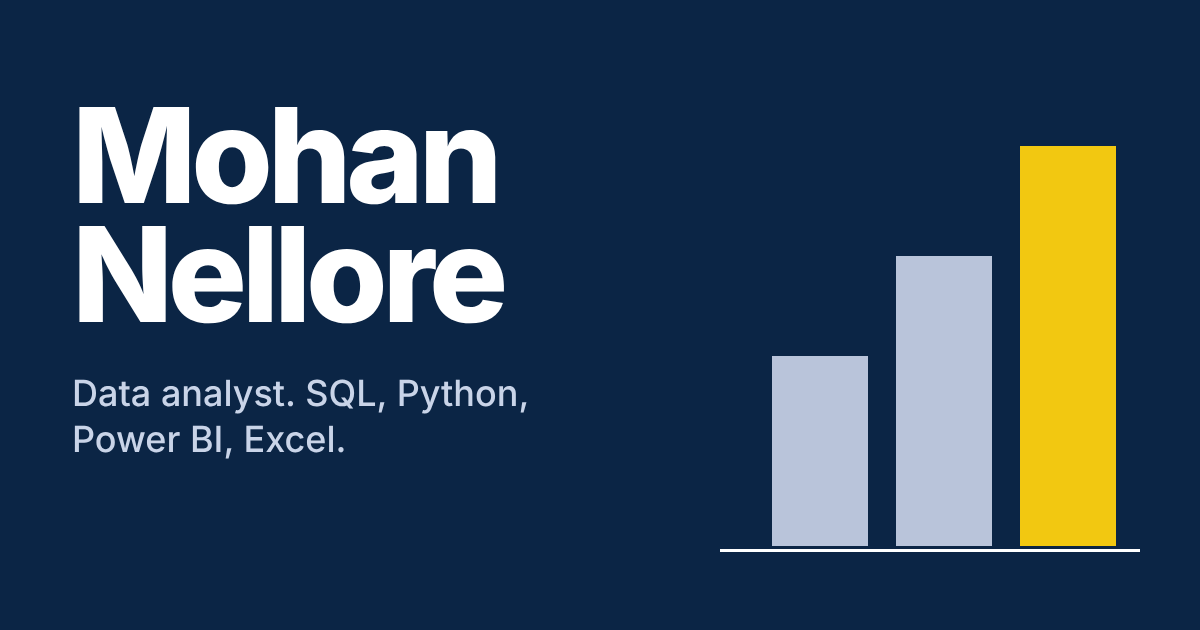
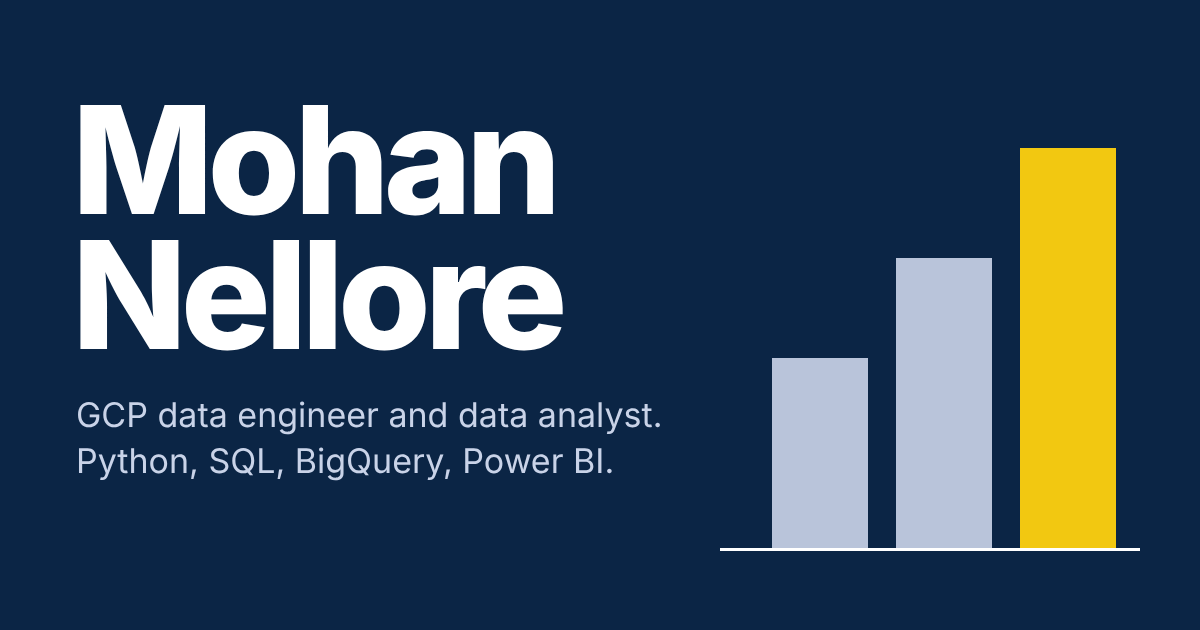
Refocus portfolio on GCP data engineering and data analysis
- Remove the before/after results chart from the hero
- Retitle the profile as GCP data engineer and data analyst across the
  hero, About, page title, meta/Open Graph tags, JSON-LD and README
- Rework skills into Google Cloud, Data engineering, Languages, Analytics,
  Tools and Strengths. Only services used in the pipeline are listed
- Cut Projects to two: the GCP air-quality pipeline (with a pipeline
  diagram) and the electric vehicle analysis; drop the Uber and store
  sales projects
- Regenerate the social share image with the new title
- Balance the role line wrap and remove the unused chart CSS

Claude-Session: https://claude.ai/code/session_0138ZdZ2XPy7SnAWQC2XQ62Q

diff --git a/index.html b/index.html
@@ -3,21 +3,21 @@
 <head>
   <meta charset="utf-8">
   <meta name="viewport" content="width=device-width, initial-scale=1">
-  <title>Mohan Nellore, Data Analyst in Hyderabad</title>
-  <meta name="description" content="Portfolio of Mohan Nellore, an entry-level data analyst in Hyderabad skilled in SQL, Python, Power BI, and Excel. Projects, internship experience, and contact details.">
+  <title>Mohan Nellore, GCP Data Engineer and Data Analyst</title>
+  <meta name="description" content="Portfolio of Mohan Nellore, a GCP data engineer and data analyst in Hyderabad. Python, SQL, BigQuery, and Power BI work, internship experience, and contact details.">
   <meta name="author" content="Mohan Nellore">
   <meta name="theme-color" content="#F4F6FA">
   <link rel="canonical" href="https://mohannellore.github.io/">
 
   <meta property="og:type" content="website">
   <meta property="og:site_name" content="Mohan Nellore">
-  <meta property="og:title" content="Mohan Nellore, Data Analyst in Hyderabad">
-  <meta property="og:description" content="Entry-level data analyst skilled in SQL, Python, Power BI, and Excel. See projects, internship experience, and how to get in touch.">
+  <meta property="og:title" content="Mohan Nellore, GCP Data Engineer and Data Analyst">
+  <meta property="og:description" content="Entry-level GCP data engineer and data analyst skilled in Python, SQL, BigQuery, and Power BI. See projects, internship experience, and how to get in touch.">
   <meta property="og:url" content="https://mohannellore.github.io/">
   <meta property="og:image" content="https://mohannellore.github.io/assets/img/og-image.png">
   <meta property="og:image:width" content="1200">
   <meta property="og:image:height" content="630">
-  <meta property="og:image:alt" content="Mohan Nellore, data analyst. SQL, Python, Power BI, Excel.">
+  <meta property="og:image:alt" content="Mohan Nellore, GCP data engineer and data analyst. Python, SQL, BigQuery, Power BI.">
   <meta name="twitter:card" content="summary_large_image">
 
   <link rel="icon" href="assets/img/favicon.svg" type="image/svg+xml">
@@ -40,7 +40,7 @@
     "@context": "https://schema.org",
     "@type": "Person",
     "name": "Mohan Nellore",
-    "jobTitle": "Data Analyst",
+    "jobTitle": "GCP Data Engineer and Data Analyst",
     "url": "https://mohannellore.github.io/",
     "image": "https://mohannellore.github.io/assets/img/avatar.webp",
     "sameAs": [
@@ -53,7 +53,7 @@
       "addressRegion": "Telangana",
       "addressCountry": "IN"
     },
-    "knowsAbout": ["SQL", "Python", "Power BI", "Excel", "Data analysis", "Data visualization"]
+    "knowsAbout": ["Google Cloud Platform", "BigQuery", "Cloud Storage", "Python", "SQL", "ETL pipelines", "Data analysis", "Power BI", "Excel"]
   }
   </script>
 </head>
@@ -90,16 +90,18 @@
 
     <!-- Hero -->
     <section class="hero" id="top" aria-labelledby="name">
-      <div class="wrap hero__grid">
+      <div class="wrap">
         <div class="hero__copy">
           <div class="status">
             <img class="avatar" src="assets/img/avatar.webp" width="72" height="72" alt="Portrait of Mohan Nellore">
-            <p>Hyderabad, India.<br>Open to entry-level data analyst roles.</p>
+            <p>Hyderabad, India.<br>Open to entry-level data engineer and data analyst roles.</p>
           </div>
 
           <h1 id="name"><span>Mohan</span> <span>Nellore</span></h1>
 
-          <p class="lead">I'm a data analyst. I clean data, find what matters in it, and show it in dashboards people can act on. I work in SQL, Python, Power BI, and Excel.</p>
+          <p class="role">GCP data engineer and data analyst</p>
+
+          <p class="lead">I build Python pipelines on Google Cloud that clean data, load it into BigQuery, and get it ready for SQL analysis. I also analyze data and build dashboards in Python, SQL, and Power BI.</p>
 
           <div class="actions">
             <a class="btn btn--solid" href="#projects">See projects</a>
@@ -112,37 +114,6 @@
             <li><a href="mailto:mohannellore17@gmail.com" data-track="contact_email" data-category="contact" data-label="Email Click (Hero)"><svg class="icon" aria-hidden="true"><use href="#i-mail"/></svg>Email</a></li>
           </ul>
         </div>
-
-        <figure class="chart">
-          <div class="chart__pair">
-            <svg class="chart__svg" viewBox="0 0 280 190" role="img" aria-label="Bar chart. Reporting time fell from an index of 100 to 70, a 30 percent reduction.">
-              <text class="c-title" x="0" y="20">Reporting time</text>
-              <line class="c-ref" x1="118" y1="62" x2="246" y2="62"/>
-              <line class="c-base" x1="0" y1="158" x2="280" y2="158"/>
-              <rect class="c-bar c-bar--soft" style="--d:.15s" x="34" y="62" width="84" height="96"/>
-              <rect class="c-bar c-bar--ink" style="--d:.45s" x="162" y="90.8" width="84" height="67.2"/>
-              <text class="c-val c-val--ink" x="76" y="146">100</text>
-              <text class="c-val c-val--white" x="204" y="146">70</text>
-              <g class="c-tag"><rect x="170" y="65" width="68" height="22" rx="4"/><text x="204" y="81.5">−30%</text></g>
-              <text class="c-x" x="76" y="180">Before</text>
-              <text class="c-x" x="204" y="180">After</text>
-            </svg>
-
-            <svg class="chart__svg" viewBox="0 0 280 190" role="img" aria-label="Bar chart. Data efficiency rose from an index of 100 to 125, a 25 percent improvement.">
-              <text class="c-title" x="0" y="20">Data efficiency</text>
-              <line class="c-ref" x1="118" y1="62" x2="246" y2="62"/>
-              <line class="c-base" x1="0" y1="158" x2="280" y2="158"/>
-              <rect class="c-bar c-bar--soft" style="--d:.3s" x="34" y="62" width="84" height="96"/>
-              <rect class="c-bar c-bar--ink" style="--d:.6s" x="162" y="38" width="84" height="120"/>
-              <text class="c-val c-val--ink" x="76" y="146">100</text>
-              <text class="c-val c-val--white" x="204" y="146">125</text>
-              <g class="c-tag"><rect x="170" y="11" width="68" height="22" rx="4"/><text x="204" y="27.5">+25%</text></g>
-              <text class="c-x" x="76" y="180">Before</text>
-              <text class="c-x" x="204" y="180">After</text>
-            </svg>
-          </div>
-          <figcaption>Results from my data analyst internship at Kapil IT Skill Hub, May to July 2025. Each pair is indexed so that before equals 100.</figcaption>
-        </figure>
       </div>
     </section>
 
@@ -152,26 +123,30 @@
         <h2 id="about-h" class="split__title">About</h2>
         <div class="split__body">
           <div class="prose">
-            <p>I'm a data analyst who works in SQL, Python (Pandas, NumPy, Matplotlib, Seaborn), Power BI, advanced Excel, and Google Analytics. During my internship at Kapil IT Skill Hub I built dashboards and automated workflows that cut reporting time by <mark>30%</mark> and improved data efficiency by <mark>25%</mark>.</p>
-            <p>I'm strongest at data cleaning, exploratory analysis, and visualization: turning raw data into findings someone can act on. I'm interested in analytics for retail, e-commerce, marketing, and IT and software teams.</p>
+            <p>I'm a data engineer and analyst who works on Google Cloud Platform and in Python. I build batch ETL pipelines with Pandas, Cloud Storage, and BigQuery, add data-quality checks so bad records never reach the warehouse, and query the results with SQL. For analysis and reporting I use Power BI (DAX), advanced Excel, and Google Analytics.</p>
+            <p>During my internship at Kapil IT Skill Hub I analyzed Indian air and water quality data, built Power BI and Excel dashboards, and automated ETL workflows in Python. That work cut reporting time by <mark>30%</mark> and improved data efficiency by <mark>25%</mark>. I'm looking for entry-level data engineer and data analyst roles in retail, e-commerce, marketing, and IT and software teams.</p>
           </div>
 
           <dl class="facts">
             <div class="facts__row">
-              <dt>Query and code</dt>
-              <dd><ul><li>SQL</li><li>Python (Pandas, NumPy, Matplotlib, Seaborn)</li></ul></dd>
+              <dt>Google Cloud</dt>
+              <dd><ul><li>BigQuery (partitioned and clustered tables)</li><li>Cloud Storage</li><li>gcloud CLI</li><li>Cloud Shell</li></ul></dd>
             </div>
             <div class="facts__row">
-              <dt>Reporting</dt>
-              <dd><ul><li>Power BI (DAX, dashboards)</li><li>Excel (advanced)</li><li>Google Analytics</li></ul></dd>
+              <dt>Data engineering</dt>
+              <dd><ul><li>Batch ETL pipelines</li><li>Data cleaning and validation</li><li>Data-quality checks</li><li>Unit testing (unittest)</li></ul></dd>
             </div>
             <div class="facts__row">
-              <dt>Analysis</dt>
-              <dd><ul><li>Data cleaning</li><li>Exploratory data analysis</li><li>Statistical analysis</li><li>Data visualization</li></ul></dd>
+              <dt>Languages</dt>
+              <dd><ul><li>Python (Pandas, NumPy, Matplotlib, Seaborn)</li><li>SQL (CTEs, window functions)</li></ul></dd>
+            </div>
+            <div class="facts__row">
+              <dt>Analytics</dt>
+              <dd><ul><li>Power BI (DAX, dashboards)</li><li>Excel (advanced)</li><li>Exploratory data analysis</li><li>Statistical analysis</li><li>Data visualization</li><li>Google Analytics</li></ul></dd>
             </div>
             <div class="facts__row">
               <dt>Tools</dt>
-              <dd><ul><li>Jupyter Notebook</li><li>VS Code</li></ul></dd>
+              <dd><ul><li>Git</li><li>Jupyter Notebook</li><li>VS Code</li></ul></dd>
             </div>
             <div class="facts__row">
               <dt>Strengths</dt>
@@ -219,35 +194,29 @@
       <div class="wrap split">
         <div class="split__title">
           <h2 id="projects-h">Projects</h2>
-          <p class="side-note">Sample data analytics projects using SQL, Python, and Power BI. <a href="https://github.com/MohanNellore" target="_blank" rel="noopener" data-track="github_click" data-category="social" data-label="GitHub Link (Projects)">See more on GitHub<span class="sr-only"> (opens in a new tab)</span></a></p>
+          <p class="side-note">A GCP data pipeline and a data analysis project. <a href="https://github.com/MohanNellore" target="_blank" rel="noopener" data-track="github_click" data-category="social" data-label="GitHub Link (Projects)">See more on GitHub<span class="sr-only"> (opens in a new tab)</span></a></p>
         </div>
 
         <div class="split__body">
           <article class="project">
-            <div class="project__thumb" aria-hidden="true">
-              <svg viewBox="0 0 220 150" focusable="false">
-                <path class="g" d="M0 26H220M0 52H220M0 78H220M0 104H220M0 130H220"/>
-                <rect class="soft" x="16"  y="100" width="10" height="30"/>
-                <rect class="soft" x="32"  y="108" width="10" height="22"/>
-                <rect class="soft" x="48"  y="90"  width="10" height="40"/>
-                <rect class="hi"   x="64"  y="52"  width="10" height="78"/>
-                <rect class="soft" x="80"  y="74"  width="10" height="56"/>
-                <rect class="soft" x="96"  y="92"  width="10" height="38"/>
-                <rect class="soft" x="112" y="86"  width="10" height="44"/>
-                <rect class="soft" x="128" y="78"  width="10" height="52"/>
-                <rect class="hi"   x="144" y="44"  width="10" height="86"/>
-                <rect class="soft" x="160" y="70"  width="10" height="60"/>
-                <rect class="soft" x="176" y="96"  width="10" height="34"/>
-                <rect class="soft" x="192" y="106" width="10" height="24"/>
-                <path class="base" d="M8 130H212"/>
+            <div class="project__thumb">
+              <svg viewBox="0 0 220 179" role="img" aria-label="Pipeline steps: raw CSV, clean with Pandas, quality check, Cloud Storage, BigQuery, SQL analytics.">
+                <g class="conn"><path d="M110 22V25M110 53V56M110 84V87M110 115V118M110 146V149"/></g>
+                <g class="arrow"><path d="M105.5 25h9l-4.5 8zM105.5 56h9l-4.5 8zM105.5 87h9l-4.5 8zM105.5 118h9l-4.5 8zM105.5 149h9l-4.5 8z"/></g>
+                <rect class="node" x="14" y="2" width="192" height="20" rx="4"/><text class="t" x="110" y="12">Raw CSV</text>
+                <rect class="node" x="14" y="33" width="192" height="20" rx="4"/><text class="t" x="110" y="43">Clean with Pandas</text>
+                <rect class="node" x="14" y="64" width="192" height="20" rx="4"/><text class="t" x="110" y="74">Quality check</text>
+                <rect class="node" x="14" y="95" width="192" height="20" rx="4"/><text class="t" x="110" y="105">Cloud Storage</text>
+                <rect class="node node--hi" x="14" y="126" width="192" height="20" rx="4"/><text class="t" x="110" y="136">BigQuery</text>
+                <rect class="node" x="14" y="157" width="192" height="20" rx="4"/><text class="t" x="110" y="167">SQL analytics</text>
               </svg>
             </div>
             <div class="project__info">
-              <h3>Uber trip analysis</h3>
-              <p class="project__tools">Power BI, DAX</p>
-              <p>A Power BI dashboard of Uber trip data by location and time, with KPIs for bookings and trip distance. DAX measures show the peak hours so driver allocation can be optimized.</p>
-              <p class="project__result">Improved insights by <mark>15%</mark>.</p>
-              <p><a href="https://github.com/MohanNellore/Uber-Trip-Analysis" target="_blank" rel="noopener" data-track="github_click" data-category="social" data-label="Project: Uber Trip Analysis">View code on GitHub<span class="sr-only"> (opens in a new tab)</span></a></p>
+              <h3>GCP air-quality data pipeline</h3>
+              <p class="project__tools">Python, Pandas, Cloud Storage, BigQuery, SQL</p>
+              <p>A batch ETL pipeline that cleans a messy CSV of daily city air-quality readings with Pandas, checks it against data-quality rules, stages it in Cloud Storage, and loads it into BigQuery. The table is partitioned by reading date and clustered by city. Five SQL queries using CTEs and window functions analyze the result.</p>
+              <p>The run stops when a quality check fails, so bad data never reaches the warehouse. The same pipeline also runs locally on SQLite, so it works without a cloud account. The data is synthetic, generated with deliberate errors such as duplicates, negative values, and invalid dates.</p>
+              <p><a href="https://github.com/MohanNellore/gcp-air-quality-pipeline" target="_blank" rel="noopener" data-track="github_click" data-category="social" data-label="Project: GCP Air Quality Pipeline">View code on GitHub<span class="sr-only"> (opens in a new tab)</span></a></p>
             </div>
           </article>
 
@@ -266,27 +235,6 @@
               <p class="project__tools">Python, Power BI</p>
               <p>Exploratory analysis of electric vehicle sales data in Python, followed by a Power BI dashboard designed to improve the customer experience.</p>
               <p><a href="https://github.com/MohanNellore/Electric-Vehicle-Analysis" target="_blank" rel="noopener" data-track="github_click" data-category="social" data-label="Project: Electric Vehicle Analysis">View code on GitHub<span class="sr-only"> (opens in a new tab)</span></a></p>
-            </div>
-          </article>
-
-          <article class="project">
-            <div class="project__thumb" aria-hidden="true">
-              <svg viewBox="0 0 220 150" focusable="false">
-                <path class="g" d="M44 10V140M88 10V140M132 10V140M176 10V140"/>
-                <rect class="hi"   x="16" y="18"  width="168" height="16"/>
-                <rect class="soft" x="16" y="44"  width="132" height="16"/>
-                <rect class="soft" x="16" y="70"  width="104" height="16"/>
-                <rect class="soft" x="16" y="96"  width="76"  height="16"/>
-                <rect class="soft" x="16" y="122" width="52"  height="16"/>
-                <path class="base" d="M16 10V142"/>
-              </svg>
-            </div>
-            <div class="project__info">
-              <h3>Store sales and profit analysis</h3>
-              <p class="project__tools">Python</p>
-              <p>Analysis of multi-store sales data that identifies the top stores to guide ad campaigns, with visualizations of sales and profit.</p>
-              <p class="project__result">Boosted sales by <mark>10%</mark> through targeted marketing. Improved data accuracy by <mark>20%</mark> by cleaning the dataset.</p>
-              <p><a href="https://github.com/MohanNellore/sales-profit-analysis" target="_blank" rel="noopener" data-track="github_click" data-category="social" data-label="Project: Sales Profit Analysis">View code on GitHub<span class="sr-only"> (opens in a new tab)</span></a></p>
             </div>
           </article>
         </div>
@@ -332,7 +280,7 @@
       <div class="wrap split">
         <div class="split__title">
           <h2 id="contact-h">Contact</h2>
-          <p class="side-note">Open to entry-level data analyst roles. Email me, call, or send a message with the form.</p>
+          <p class="side-note">Open to entry-level data engineer and data analyst roles. Email me, call, or send a message with the form.</p>
         </div>
 
         <div class="split__body contact">

diff --git a/assets/css/style.css b/assets/css/style.css
@@ -231,16 +231,6 @@ mark {
   mask-image: linear-gradient(to bottom, #000 50%, transparent);
 }
 
-.hero__grid {
-  display: grid;
-  gap: clamp(2rem, 5vw, 3.5rem);
-  align-items: center;
-}
-
-@media (min-width: 960px) {
-  .hero__grid { grid-template-columns: minmax(0, 1.08fr) minmax(0, 1fr); }
-}
-
 .status {
   display: flex;
   align-items: center;
@@ -260,7 +250,7 @@ mark {
 }
 
 .hero h1 {
-  margin: clamp(1.25rem, 3vw, 2rem) 0 1.25rem;
+  margin: clamp(1.25rem, 3vw, 2rem) 0 1rem;
   font-family: var(--sans);
   font-weight: 800;
   font-size: clamp(3.5rem, 10.5vw, 7rem);
@@ -273,7 +263,15 @@ mark {
 .hero h1 span { display: block; }
 
 @media (min-width: 960px) {
-  .hero h1 { font-size: clamp(5rem, 8.2vw, 7.25rem); }
+  .hero h1 { font-size: clamp(5.5rem, 10vw, 9rem); }
+}
+
+.role {
+  margin-bottom: 1.25rem;
+  font: 600 clamp(1.5rem, 3.4vw, 2.25rem)/1.15 var(--sans);
+  letter-spacing: -0.02em;
+  text-wrap: balance;
+  color: var(--ink);
 }
 
 .lead {
@@ -307,58 +305,8 @@ mark {
 }
 .quick-links a:hover { text-decoration-thickness: 2px; }
 
-/* ---------- Hero chart ---------- */
-.chart {
-  background: var(--surface);
-  border: 1px solid var(--line);
-  border-radius: var(--radius);
-  padding: clamp(1rem, 2.5vw, 1.5rem);
-}
-
-.chart__pair {
-  display: grid;
-  grid-template-columns: repeat(auto-fit, minmax(200px, 1fr));
-  gap: 1.5rem 1.25rem;
-}
-
-.chart__svg { width: 100%; height: auto; overflow: visible; }
-
-.chart__pair { padding-bottom: 1rem; border-bottom: 1px solid var(--line); }
-
-.chart figcaption {
-  margin-top: 0.85rem;
-  max-width: 42em;
-  font: italic 400 0.9375rem/1.5 var(--serif);
-  color: var(--muted);
-}
-
-.c-title { font: 600 18px var(--sans); fill: var(--ink); }
-.c-x { font: 500 16px var(--sans); fill: var(--muted); text-anchor: middle; }
-.c-val { font: 700 22px var(--sans); text-anchor: middle; font-variant-numeric: tabular-nums; }
-.c-val--ink { fill: var(--ink); }
-.c-val--white { fill: #fff; }
-.c-base { stroke: var(--ink); stroke-width: 1.5; }
-.c-ref { stroke: var(--ink-soft); stroke-width: 1.5; stroke-dasharray: 4 4; }
-.c-bar--soft { fill: var(--chart-soft); }
-.c-bar--ink { fill: var(--ink); }
-.c-tag rect { fill: var(--mark); }
-.c-tag text { font: 700 17px var(--sans); fill: var(--ink); text-anchor: middle; }
-
-/* The page's one orchestrated moment: the bars grow, then the numbers land. */
-.c-bar {
-  transform-box: fill-box;
-  transform-origin: 50% 100%;
-  animation: grow 0.8s cubic-bezier(0.2, 0.7, 0.2, 1) var(--d, 0s) both;
-}
-.c-val { animation: fade 0.4s ease 0.95s both; }
-.c-tag { animation: fade 0.4s ease 1.25s both; }
-
-@keyframes grow { from { transform: scaleY(0); } }
-@keyframes fade { from { opacity: 0; } }
-
 @media (prefers-reduced-motion: reduce) {
   html { scroll-behavior: auto; }
-  .c-bar, .c-val, .c-tag { animation: none; }
 }
 
 /* ---------- Sections ---------- */
@@ -514,6 +462,11 @@ h3 {
 .project__thumb .area { fill: var(--chart-soft); opacity: 0.55; }
 .project__thumb .line { fill: none; stroke: var(--ink); stroke-width: 3; stroke-linejoin: round; stroke-linecap: round; }
 .project__thumb .dot { fill: var(--mark); stroke: var(--ink); stroke-width: 2; }
+.project__thumb .node { fill: var(--surface); stroke: var(--ink); stroke-width: 1.5; }
+.project__thumb .node--hi { fill: var(--mark); }
+.project__thumb .conn path { fill: none; stroke: var(--ink); stroke-width: 1.5; }
+.project__thumb .arrow path { fill: var(--ink); }
+.project__thumb .t { font: 600 13px var(--sans); fill: var(--ink); text-anchor: middle; dominant-baseline: central; }
 
 /* ---------- Education ---------- */
 .edu { width: 100%; border-collapse: collapse; text-align: left; }
@@ -636,7 +589,6 @@ h3 {
 @media print {
   .site-header, .site-footer, .form, .actions, .quick-links, .skip { display: none; }
   .hero::before { display: none; }
-  .c-bar, .c-val, .c-tag { animation: none; }
   .section { break-inside: avoid; border-top-color: #999; }
   body { background: #fff; }
 }

diff --git a/README.md b/README.md
@@ -1,6 +1,6 @@
 # Mohan Nellore, portfolio
 
-Source for [mohannellore.github.io](https://mohannellore.github.io/): a single-page portfolio for an entry-level data analyst.
+Source for [mohannellore.github.io](https://mohannellore.github.io/): a single-page portfolio for an entry-level GCP data engineer and data analyst.
 
 ## Structure
 
@@ -18,7 +18,8 @@ There is no build step and no dependencies. Open `index.html` in a browser to pr
 
 - **Content:** edit the text in `index.html`. Each section has its own `<section>` with an `id`.
 - **Colors and fonts:** change the variables in the `:root` block at the top of `assets/css/style.css`.
-- **Add a project:** copy an `<article class="project">` block in the Projects section. Each project uses a small inline SVG chart in place of a screenshot; swap in a screenshot with an `<img>` if you prefer.
+- **Add a project:** copy an `<article class="project">` block in the Projects section. Each project uses a small inline SVG (a pipeline diagram or a chart) in place of a screenshot; swap in a screenshot with an `<img>` if you prefer.
+- **Skills:** the skills table is the `<dl class="facts">` list in the About section. Add one `facts__row` per group.
 - **Analytics:** links with a `data-track` attribute send a Google Analytics event when clicked. The event names match the previous version of the site.
 - **Contact form:** posts to Formspree (`action` on the `<form>`). It includes a honeypot field to filter spam.
 
